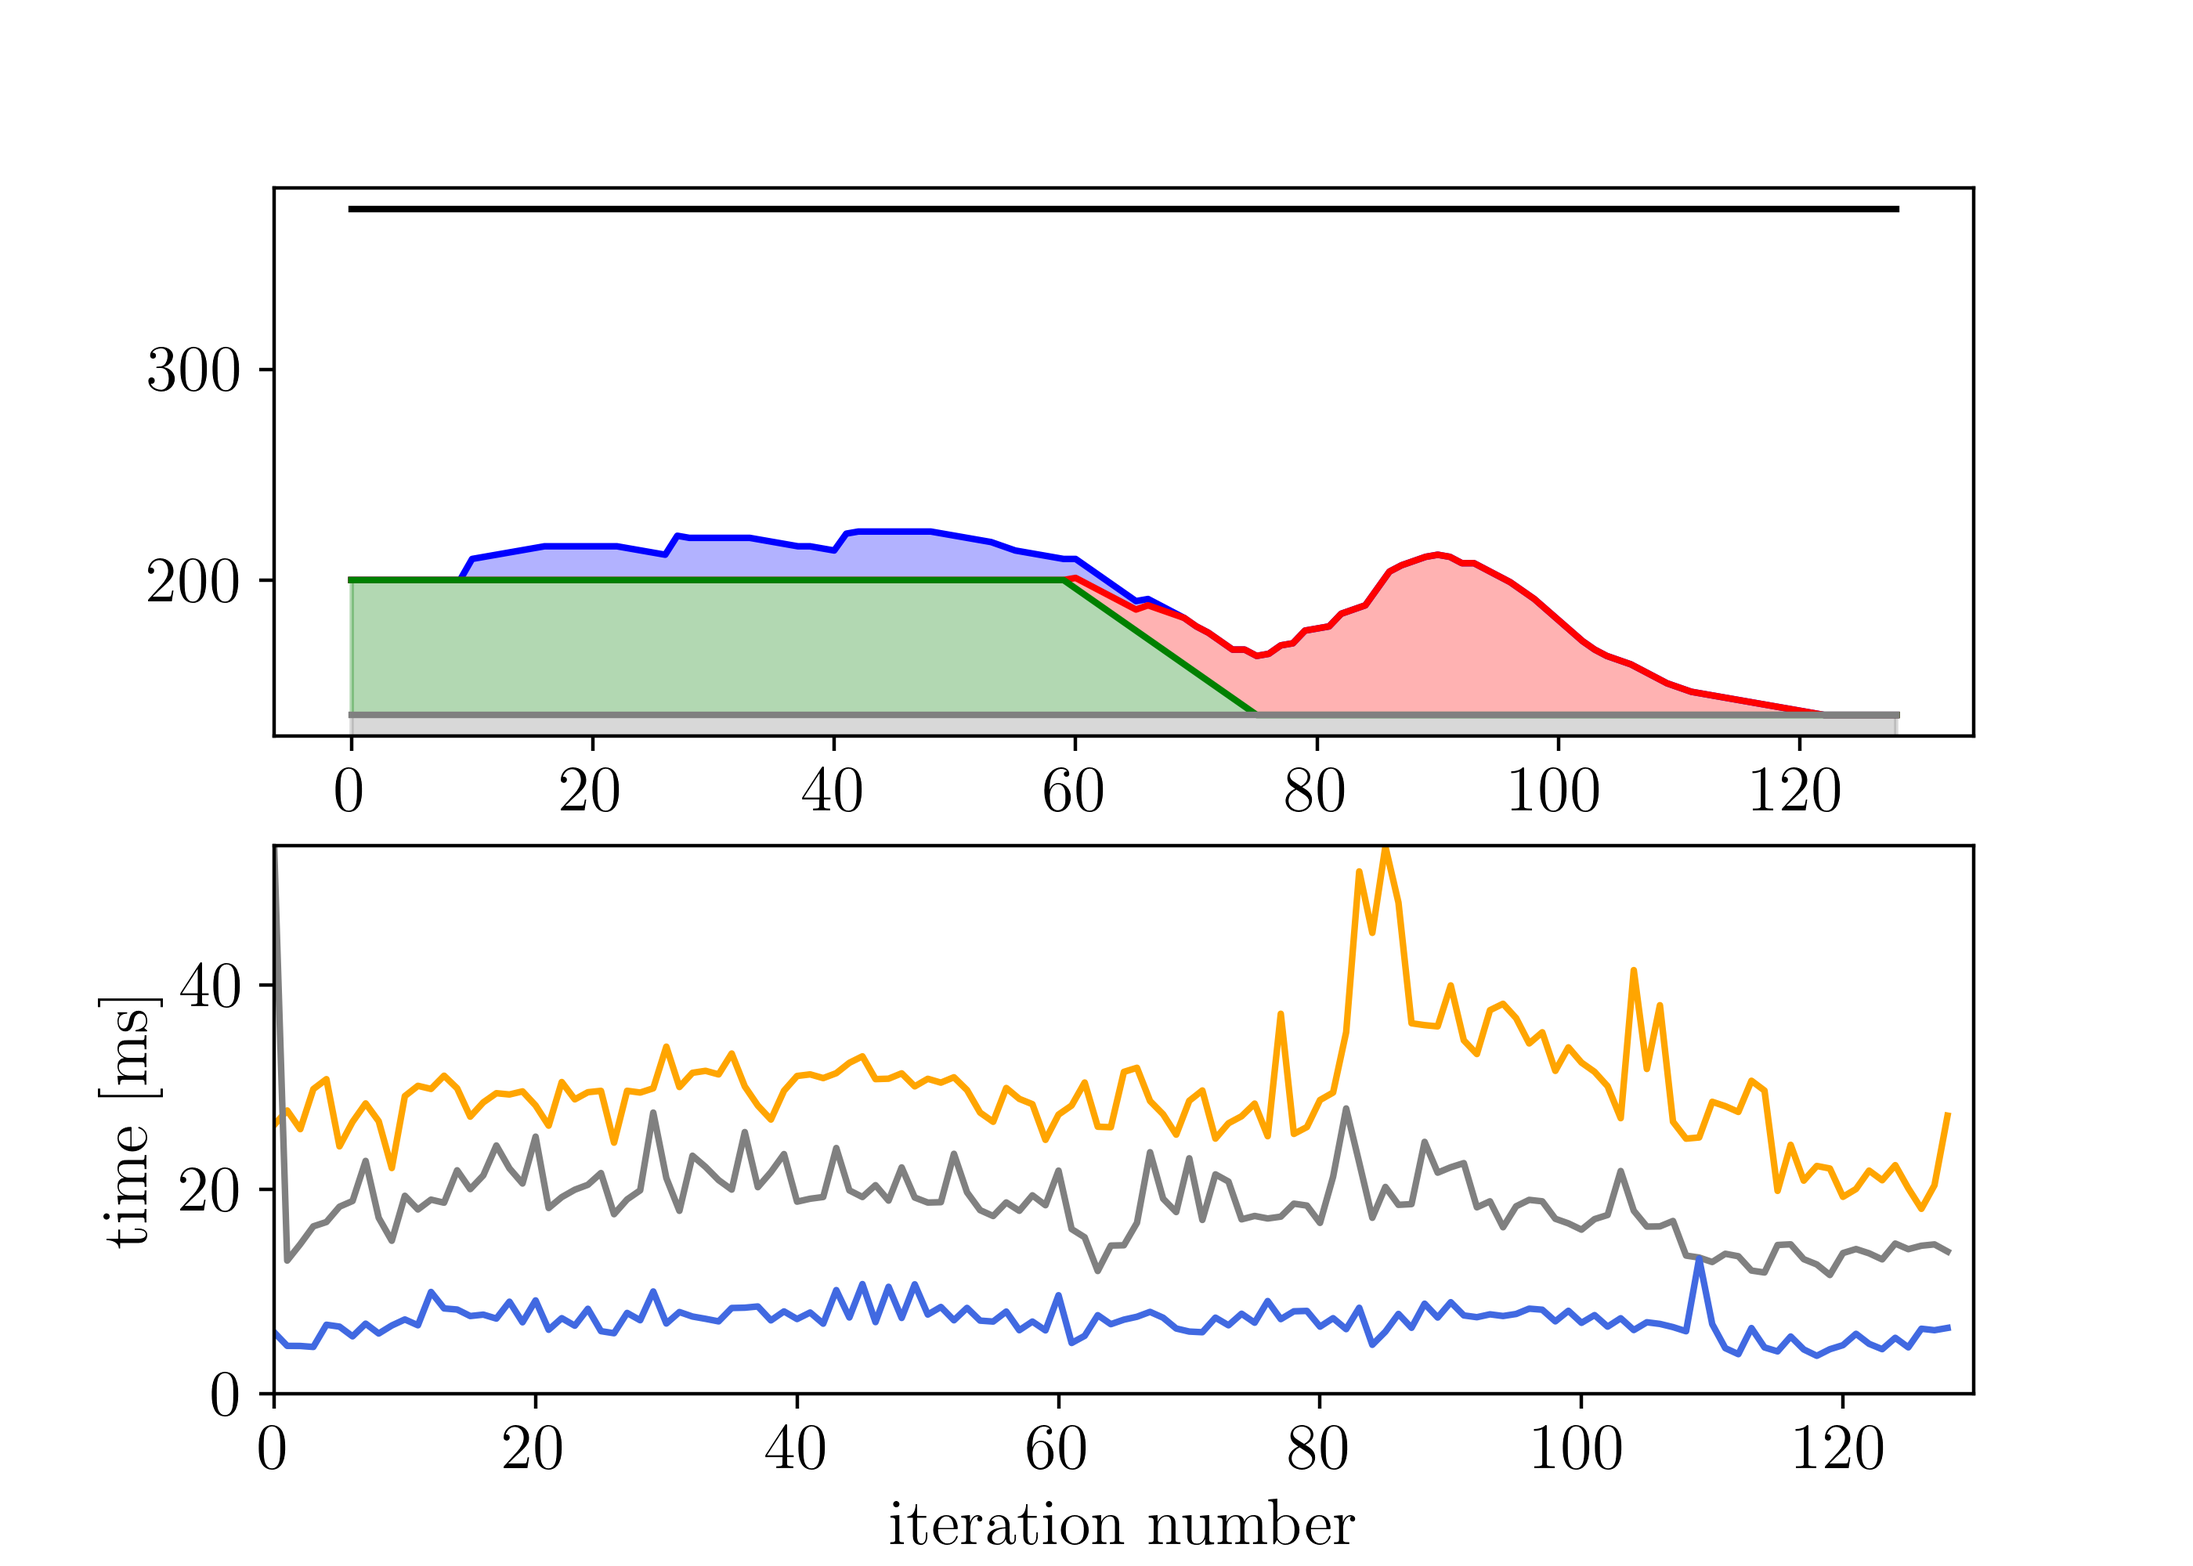
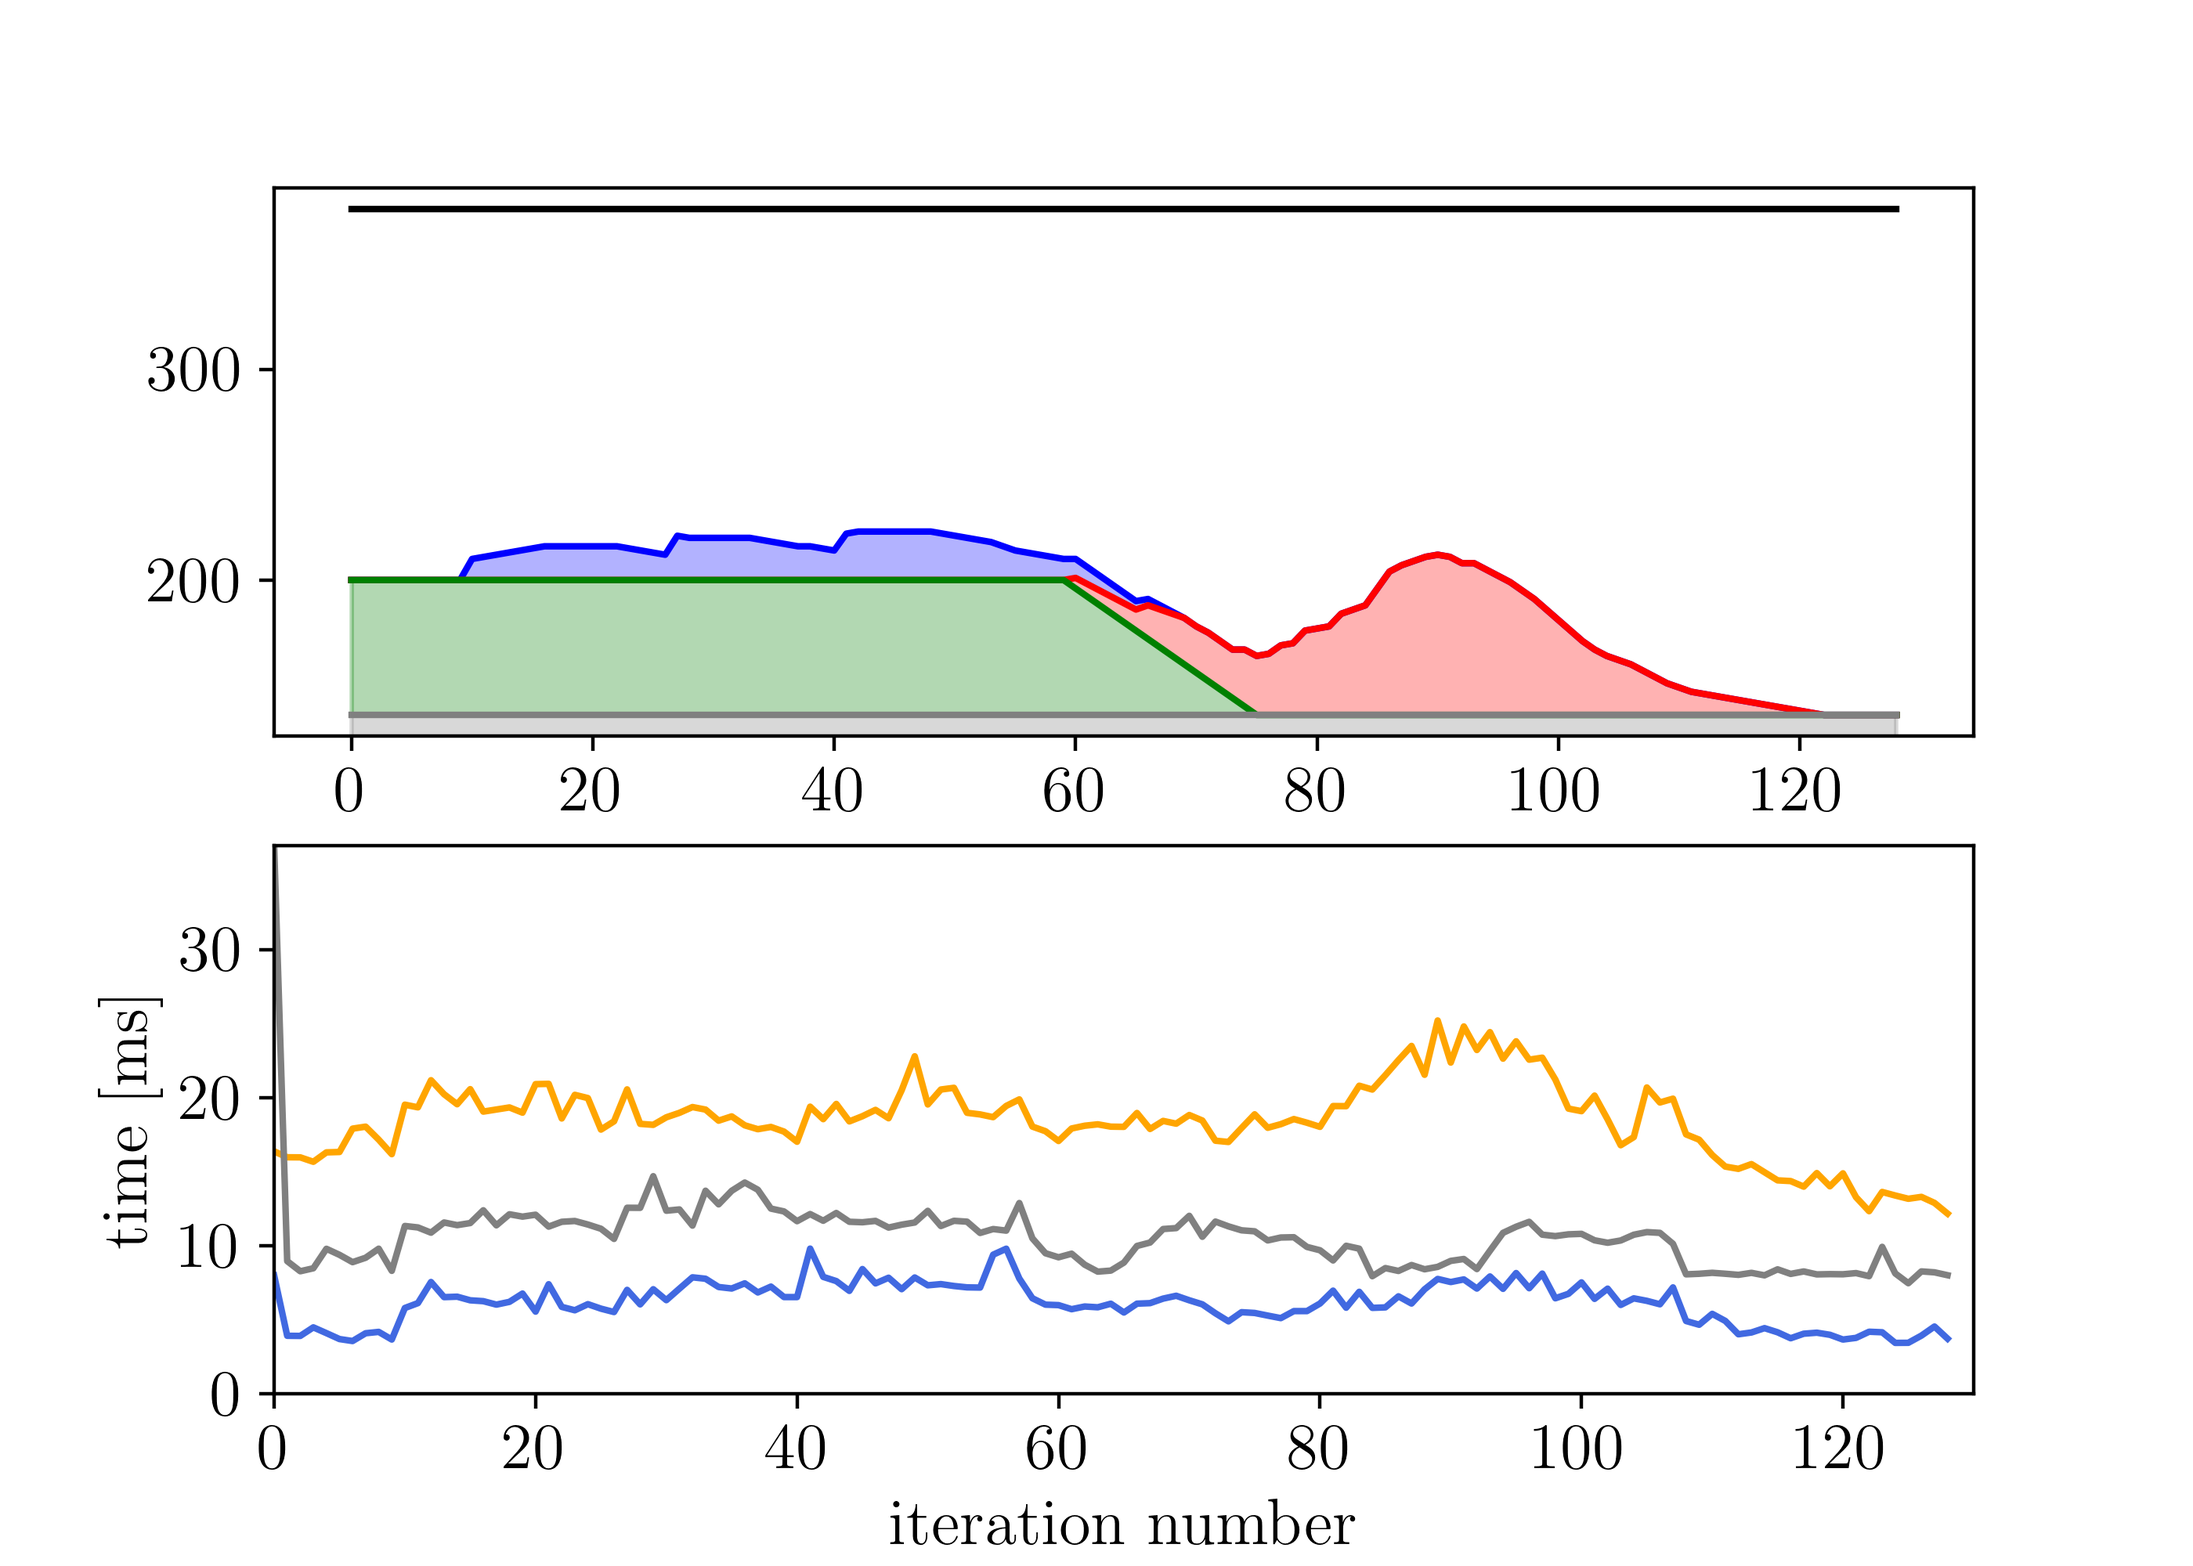
removal of adaptiveCorridorHelper friend class - update to plotters - update of sparsity generation

Changed region(s): [[0.0621, 0.558, 0.9011, 0.868], [0.0621, 0.589, 0.1243, 0.651]]

diff --git a/examples/plotting_data/plotSparsities.py b/examples/plotting_data/plotSparsities.py
@@ -4,7 +4,9 @@ import numpy as np
 from matplotlib.patches import Rectangle
 from matplotlib.ticker import MultipleLocator
 
-folder = "plotting_data"
+import pathlib
+folder = str(pathlib.Path(__file__).parent.resolve()) # "examples/plotting_data"
+figure_folder = folder + "/../figures"
 
 def latexify():
     fontsize = 30
@@ -136,9 +138,9 @@ for iteration in range(len(jac_rows_adaptive)):
     
     plt.subplots_adjust(top=0.8)
     plt.title(f"iteration {iteration}")
-    plt.savefig("figures/sparsities/jac_adaptive_"+str(iteration)+".png",
+    plt.savefig(figure_folder + "/sparsities/jac_adaptive_"+str(iteration)+".png",
                 dpi=400)
-    # plt.savefig("figures/sparsities/jac_adaptive_"+str(iteration)+".pdf")
+    # plt.savefig(figure_folder + "/sparsities/jac_adaptive_"+str(iteration)+".pdf")
     plt.close()
     
     plotSparsity(hess_rows_adaptive[iteration], hess_cols_adaptive[iteration], 
@@ -147,18 +149,18 @@ for iteration in range(len(jac_rows_adaptive)):
     
     plt.subplots_adjust(top=0.8)
     plt.title(f"iteration {iteration}")
-    plt.savefig("figures/sparsities/hess_adaptive_"+str(iteration)+".png",
+    plt.savefig(figure_folder + "/sparsities/hess_adaptive_"+str(iteration)+".png",
                 dpi=400)
-    # plt.savefig("figures/sparsities/hess_adaptive_"+str(iteration)+".pdf")
+    # plt.savefig(figure_folder + "/sparsities/hess_adaptive_"+str(iteration)+".pdf")
     
     plotSparsity(jac_rows_casadi[iteration], jac_cols_casadi[iteration], 
                  jac_max_rows_casadi, jac_max_cols_casadi, False)
     
     plt.subplots_adjust(top=0.8)
     plt.title(f"iteration {iteration}")
-    plt.savefig("figures/sparsities/jac_casadi_"+str(iteration)+".png",
+    plt.savefig(figure_folder + "/sparsities/jac_casadi_"+str(iteration)+".png",
                 dpi=400)
-    # plt.savefig("figures/sparsities/jac_casadi_"+str(iteration)+".pdf")
+    # plt.savefig(figure_folder + "/sparsities/jac_casadi_"+str(iteration)+".pdf")
     plt.close()
     
     plotSparsity(hess_rows_casadi[iteration], hess_cols_casadi[iteration], 
@@ -167,8 +169,8 @@ for iteration in range(len(jac_rows_adaptive)):
     
     plt.subplots_adjust(top=0.8)
     plt.title(f"iteration {iteration}")
-    plt.savefig("figures/sparsities/hess_casadi_"+str(iteration)+".png",
+    plt.savefig(figure_folder + "/sparsities/hess_casadi_"+str(iteration)+".png",
                 dpi=400)
-    # plt.savefig("figures/sparsities/hess_casadi_"+str(iteration)+".pdf")
+    # plt.savefig(figure_folder + "/sparsities/hess_casadi_"+str(iteration)+".pdf")
     plt.close()
 

diff --git a/examples/plotting_data/plotAdaptiveTimings.py b/examples/plotting_data/plotAdaptiveTimings.py
@@ -2,7 +2,9 @@ import matplotlib.pyplot as plt
 import csv
 import numpy as np
 
-folder = "plotting_data"
+import pathlib
+folder = str(pathlib.Path(__file__).parent.resolve()) # "examples/plotting_data"
+figure_folder = folder + "/../figures"
 
 def latexify():
     fontsize = 15
@@ -79,8 +81,8 @@ text_shift = 0.28
 for j in range(len(medians)):
     plt.text(positions[j]+text_shift, medians[j], round(medians[j], 2))
 
-plt.savefig("figures/adaptive_gridding_timings.pdf")
-# plt.savefig("figures/adaptive_gridding_timings.png", dpi=400)
+plt.savefig(figure_folder + "/adaptive_gridding_timings.pdf")
+# plt.savefig(figure_folder + "/adaptive_gridding_timings.png", dpi=400)
 
 
 
@@ -106,8 +108,8 @@ text_shift = 0.28
 for j in range(4):
     plt.text(positions[j]+text_shift, medians[j], round(medians[j], 2))
 
-plt.savefig("figures/adaptive_gridding_timings_0.pdf")
-# plt.savefig("figures/adaptive_gridding_timings_0.png", dpi=400)
+plt.savefig(figure_folder + "/adaptive_gridding_timings_0.pdf")
+# plt.savefig(figure_folder + "/adaptive_gridding_timings_0.png", dpi=400)
 
 # figure adaptive
 plt.figure()
@@ -132,8 +134,8 @@ text_shift = 0.28
 for j in range(4):
     plt.text(positions[j]+text_shift, medians[4+j], round(medians[4+j], 2))
 
-# plt.savefig("figures/adaptive_gridding_timings_1.png", dpi=400)
-plt.savefig("figures/adaptive_gridding_timings_1.pdf")
+# plt.savefig(figure_folder + "/adaptive_gridding_timings_1.png", dpi=400)
+plt.savefig(figure_folder + "/adaptive_gridding_timings_1.pdf")
 
 
 from matplotlib.gridspec import GridSpec
@@ -201,6 +203,6 @@ legend_ax = fig.add_subplot(gs[1, 0])
 legend_ax.axis('off')  # Turn off the axes for the legend subplot
 legend = axs.legend(bbox_to_anchor=(0.5, -0.12), loc='upper center', ncol=3)
 
-plt.savefig("figures/adpative_gridding_timings_bars.pdf")
+plt.savefig(figure_folder + "/adpative_gridding_timings_bars.pdf")
 
 plt.close()

diff --git a/examples/moonlanderExample/moonlanderExampleHelper.cpp b/examples/moonlanderExample/moonlanderExampleHelper.cpp
@@ -420,8 +420,6 @@ void MoonlanderHelper::performCasadiLoop(BuildingBlocks& blocks, double T,
 
         // set parameters
         opti.solver("ipopt", {{"print_time", false}, {"record_time", true}}, {{"print_level", print_level}});
-        // opti.solver("ipopt", {}, {{"print_level", print_level}});
-        // opti.advanced().get_solver().print_options();
         auto stop = high_resolution_clock::now();
         updating_times.push_back(double(
             duration_cast<microseconds>(stop-start).count())/(1.0e3)); 
@@ -863,8 +861,10 @@ void MoonlanderHelper::getSparsities(Opti opti, std::vector<int>& jac_row,
                                      std::vector<int>& jac_col, 
                                      std::vector<int>& hess_row,
                                      std::vector<int>& hess_col){
-    Function J = opti.advanced().get_solver().get_function("nlp_jac_g");
-    Sparsity sp = J.sparsity_out(1);
+    MX J = jacobian(opti.g(), opti.x());
+    Sparsity sp = J.sparsity();
+    // // Function J = opti.advanced().get_solver().get_function("nlp_jac_g");
+    // Sparsity sp = J.sparsity_out(1);
 
     for (int i = 0; i < sp.size1(); i++){
         for (int j = 0; j < sp.size2(); j++){
@@ -875,8 +875,10 @@ void MoonlanderHelper::getSparsities(Opti opti, std::vector<int>& jac_row,
         }
     }
 
-    Function H = opti.advanced().get_solver().get_function("nlp_hess_l");
-    sp = H.sparsity_out(0);
+    MX H = hessian(opti.f() + mtimes(transpose(opti.lam_g()), opti.g()), opti.x());
+    sp = H.sparsity();
+    // Function H = opti.advanced().get_solver().get_function("nlp_hess_l");
+    // sp = H.sparsity_out(0);
 
     for (int i = 0; i < sp.size1(); i++){
         for (int j = i; j < sp.size2(); j++){

diff --git a/examples/plotting_data/plotAllFrames.py b/examples/plotting_data/plotAllFrames.py
@@ -3,7 +3,10 @@ import csv
 import numpy as np
 import pickle
 
-folder = "plotting_data"
+import pathlib
+folder = str(pathlib.Path(__file__).parent.resolve()) # "examples/plotting_data"
+figure_folder = folder + "/../figures"
+
 
 def latexify():
     fontsize = 15
@@ -292,7 +295,7 @@ for frame_nb in range(len(timings_adaptive)):
     plt.subplots_adjust(bottom=0.2, left=0.15, right=0.85, top=0.9)
 
     # plt.show()
-    plt.savefig("figures/animation/animation_frame_" + str(frame_nb) + ".png", dpi=200)
+    plt.savefig(figure_folder + "/animation/animation_frame_" + str(frame_nb) + ".png", dpi=200)
     # plt.savefig("figures/animation/animation_frame_" + str(frame_nb) + ".pdf")
 
     if (frame_nb == len(timings_adaptive)-1):
@@ -361,6 +364,6 @@ for frame_nb in range(len(timings_adaptive)):
         axs_summary[1].set_xlabel("iteration number")
         axs_summary[1].set_ylabel("time [ms]")
         
-        plt.savefig("figures/animation_summary.png", dpi=400)
+        plt.savefig(figure_folder + "/animation_summary.png", dpi=400)
 
     plt.close()

diff --git a/examples/plotting_data/plotCompleteTrajectories.py b/examples/plotting_data/plotCompleteTrajectories.py
@@ -5,7 +5,9 @@ import csv
 import numpy as np
 import pickle
 
-folder = "plotting_data"
+import pathlib
+folder = str(pathlib.Path(__file__).parent.resolve()) # "examples/plotting_data"
+figure_folder = folder + "/../figures"
 
 def latexify():
     fontsize = 9
@@ -338,7 +340,7 @@ for t in legend.texts:
         t.set_verticalalignment("center")
     # t.set_multialignment('bottom')
 
-plt.savefig("figures/final_result.pdf")
+plt.savefig(figure_folder + "/final_result.pdf")
 
 plt.close()
 
@@ -361,5 +363,5 @@ axs[1].set_xlim(0, frame_nb-1)
 # plt.tight_layout()
 plt.subplots_adjust(left=0.15, bottom=0.2, hspace=0.35)
 
-# plt.savefig("figures/final_result_controls.png", dpi=400)
-plt.savefig("figures/final_result_controls.pdf")
+# plt.savefig(figure_folder + "/final_result_controls.png", dpi=400)
+plt.savefig(figure_folder + "/final_result_controls.pdf")

diff --git a/examples/plotting_data/plotScaling.py b/examples/plotting_data/plotScaling.py
@@ -3,7 +3,9 @@ import csv
 import numpy as np
 from matplotlib.gridspec import GridSpec
 
-folder = "plotting_data"
+import pathlib
+folder = str(pathlib.Path(__file__).parent.resolve()) # "examples/plotting_data"
+figure_folder = folder + "/../figures"
 
 def latexify():
     fontsize = 15
@@ -90,7 +92,7 @@ legend_ax = fig.add_subplot(gs[1, 0])
 legend_ax.axis('off')
 legend = ax.legend(legend_handles, legend_labels, bbox_to_anchor=(0.5, -0.2), ncol=3, loc="upper center")
 
-plt.savefig("figures/scaling_old.pdf")
+plt.savefig(figure_folder + "/scaling_old.pdf")
 
 
 time_categories = ["$t_{solve}$", "$t_{update}$", "$t_{total}$"]
@@ -189,4 +191,4 @@ legend = ax1.legend(legend_handles_short, legend_labels_short, bbox_to_anchor=(1
 
 plt.subplots_adjust(wspace=0.3)
 
-plt.savefig("figures/scaling.pdf")
+plt.savefig(figure_folder + "/scaling.pdf")

diff --git a/examples/plotting_data/plotSummary.py b/examples/plotting_data/plotSummary.py
@@ -4,7 +4,9 @@ import csv
 import numpy as np
 import pickle
 
-folder = "plotting_data"
+import pathlib
+folder = str(pathlib.Path(__file__).parent.resolve()) # "examples/plotting_data"
+figure_folder = folder + "/../figures"
 
 def latexify():
     fontsize = 15
@@ -250,7 +252,7 @@ legend = axs_summary_1.legend(bbox_to_anchor=(1.7, 0.5), loc="center right")
 
 plt.subplots_adjust(left=0.15, bottom=0.15)
 # plt.tight_layout()
-plt.savefig("figures/animation_summary.pdf")
+plt.savefig(figure_folder + "/animation_summary.pdf")
 
 plt.close()
 
@@ -305,6 +307,6 @@ axs_summary_0.set_yticks([136, 200, 300, 376])
 
 plt.subplots_adjust(left=0.15, bottom=0.15)
 # plt.tight_layout()
-plt.savefig("figures/animation_constraint_summary.pdf")
+plt.savefig(figure_folder + "/animation_constraint_summary.pdf")
 
 plt.close()

diff --git a/examples/plotting_data/plotMap.py b/examples/plotting_data/plotMap.py
@@ -5,7 +5,9 @@ import csv
 import numpy as np
 import pickle
 
-folder = "plotting_data"
+import pathlib
+folder = str(pathlib.Path(__file__).parent.resolve()) # "examples/plotting_data"
+figure_folder = folder + "/../figures"
 
 def latexify():
     fontsize = 15
@@ -175,9 +177,9 @@ legend = axs.legend(bbox_to_anchor=(0.5, -0.3), loc='upper center', ncol=3)
 # legend.set_in_layout(False)  # Prevent the legend from affecting layout
 
 # plt.tight_layout()
-plt.savefig("figures/map.pdf")
+plt.savefig(figure_folder + "/map.pdf")
 
 # import tikzplotlib
-# tikzplotlib.save("figures/map.tex")
+# tikzplotlib.save(figure_folder + "/map.tex")
 
 plt.close()

diff --git a/examples/figures/animation_controls/animationMaker.py b/examples/figures/animation_controls/animationMaker.py
@@ -14,9 +14,10 @@ def create_gif(png_folder, gif_file, delay):
     # Save as an animated GIF
     images[0].save(gif_file, save_all=True, append_images=images[1:], optimize=False, duration=delay, loop=0)
 
-# Example usage
-png_folder = 'figures/animation_controls'
-gif_file = 'figures/animation_controls/animation_controls.gif'
+import pathlib
+png_folder = str(pathlib.Path(__file__).parent.resolve()) # 'figures/animation_controls'
+frame_format = '.png'
+gif_file = png_folder + "/animation.gif" #'figures/animation_controls/animation_controls.gif'
 delay = 100  # Delay between frames in milliseconds
 
 create_gif(png_folder, gif_file, delay)

diff --git a/examples/figures/animation/animationMaker.py b/examples/figures/animation/animationMaker.py
@@ -14,10 +14,10 @@ def create_gif(png_folder, gif_file, delay, frame_format):
     # Save as an animated GIF
     images[0].save(gif_file, save_all=True, append_images=images[1:], optimize=False, duration=delay, loop=0)
 
-
-png_folder = 'figures/animation'
+import pathlib
+png_folder = str(pathlib.Path(__file__).parent.resolve()) # 'figures/animation'
 frame_format = '.png'
-gif_file = 'figures/animation/animation.gif'
+gif_file = png_folder + "/animation.gif" #'figures/animation/animation.gif'
 delay = 100  # Delay between frames in milliseconds
 
 create_gif(png_folder, gif_file, delay, frame_format)

diff --git a/examples/figures/sparsities/animationMaker.py b/examples/figures/sparsities/animationMaker.py
@@ -14,9 +14,10 @@ def create_gif(png_folder, gif_file, delay, start_str):
     # Save as an animated GIF
     images[0].save(gif_file, save_all=True, append_images=images[1:], optimize=False, duration=delay, loop=0)
 
-# Example usage
-png_folder = 'figures/sparsities'
-gif_folder = 'figures/sparsities/'
+import pathlib
+png_folder = str(pathlib.Path(__file__).parent.resolve()) # 'figures/sparsities'
+gif_folder = png_folder + "/"
+
 delay = 300  # Delay between frames in milliseconds
 
 create_gif(png_folder, gif_folder+'animation_jac_adaptive.gif', delay, 

diff --git a/include/buildingBlocks.hpp b/include/buildingBlocks.hpp
@@ -10,7 +10,6 @@ using namespace casadi;
 class NLPInterface;
 class Bookkeeper;
 class AdaptiveNLP;
-class AdaptiveCorridorHelper;
 class ManyObstaclesHelper;
 class VirtualObstacleHelper;
 class MoonlanderHelper;
@@ -41,7 +40,6 @@ class BuildingBlocks{
     friend class NLPInterface;
     friend class Bookkeeper;
     friend class AdaptiveNLP;
-    friend class AdaptiveCorridorHelper;
     friend class ManyObstaclesHelper;
     friend class VirtualObstacleHelper;
     friend class MoonlanderHelper;
